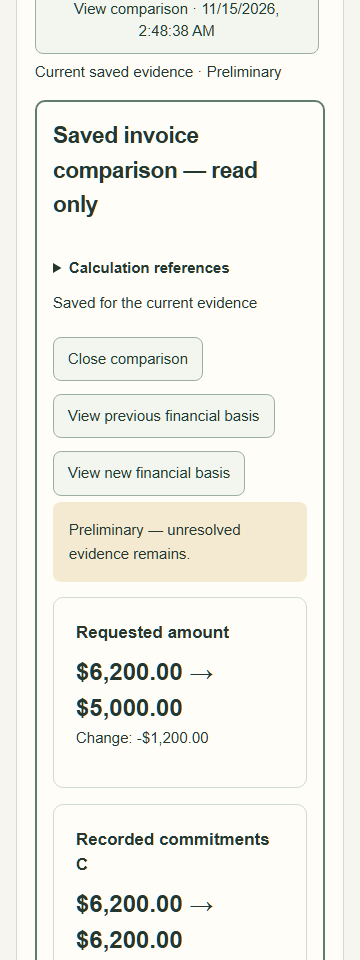
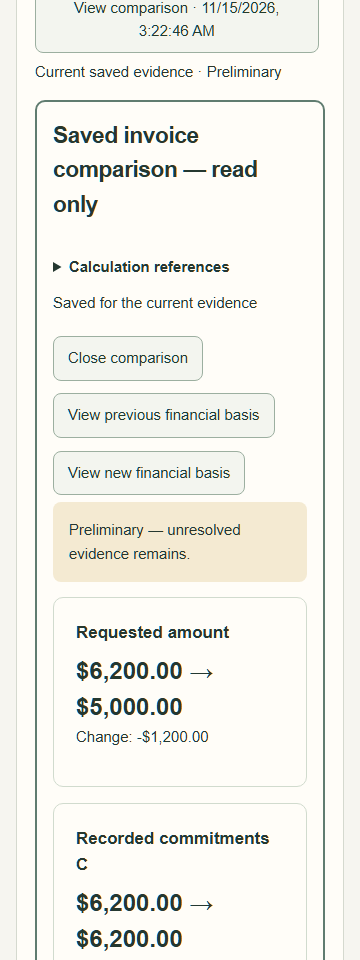
Document verified stage 8 production release and public browser evidence

diff --git a/planning/STAGE_8_REPORT.md b/planning/STAGE_8_REPORT.md
@@ -25,7 +25,7 @@ Financial edits are saved by **Save review and calculate** or **Run recheck**; u
 - A concurrent integration test exposed mixed MVCC reads after waiting for a project row lock. Fixed by loading invoice side data after acquiring the project lock; identical concurrent retries then return consistent state and one result.
 - Final production frontend build, strict mypy/TypeScript checks, Ruff, Prettier and specification integrity checks passed. HTTP smoke passed through the real BFF, normalization and ledger. Final targeted Python checks: **45 passed**; final stage 8 integration rerun: **6 passed**.
 - Full guest browser suite: **12 passed** at 360/768/1440 px, including an intentionally lost successful response and retry. After final presentation/provenance changes, the three recheck journeys passed again. Existing demo browser suite: **34 passed, 2 intentionally skipped** (viewport-specific checks).
-- Visually inspected the final comparison at all three widths: readable amounts, wrapping controls and no horizontal overflow. Local screenshots: [360 px](screenshots/stage8/comparison-guest-360.png), [768 px](screenshots/stage8/comparison-guest-768.png), [1440 px](screenshots/stage8/comparison-guest-1440.png). These capture local validation, not yet a public release.
+- Visually inspected the final comparison at all three widths: readable amounts, wrapping controls and no horizontal overflow. Public-release screenshots: [360 px](screenshots/stage8/comparison-guest-360.png), [768 px](screenshots/stage8/comparison-guest-768.png), [1440 px](screenshots/stage8/comparison-guest-1440.png). The committed images now come from the final public run described below; all three were visually inspected again.
 
 ## Run and manually verify
 
@@ -65,4 +65,24 @@ npm run test:remote
 
 ## Release gate
 
-CI, migration and public deployment pending. Previous runtime SHA is `6cb667c5308a9cee98b722f7b3956dcd8ffd58dc`; stage 7 final documentation/CI SHA is `28227f80cd8cd523a23d17c8ad1a67597c16b57f`. Do not claim the new public workflow before publishing and testing its checked SHA. Migration/rollback instructions are in [DEPLOYMENT.md](DEPLOYMENT.md).
+Published application SHA: `3dba4d1b0d47ad3a315a02b96ca636fa1fb165b7`. Frontend: <https://renotrace.vercel.app/review>; backend: <https://renotrace-api.onrender.com>. [Release CI 43645110425](https://github.com/IliasGalikhanov/renotrace/actions/runs/43645110425) passed on Linux and Windows: 401 Python tests, 34 demo browser tests with 2 intentional skips, 23 real integration tests and 12 guest browser tests. Later report/screenshot commits do not change the deployed application.
+
+The explicit additive production migration completed successfully on 2026-11-15 **before** deploying the backend. The previous backend remained healthy with OpenAPI `0.7.0` after migration. Render was then deployed and checked independently: `/healthz` returned `ok`, OpenAPI `0.8.0` exposed all four recheck/comparison routes. Only after the public backend test passed was Vercel switched to the same SHA. Existing Vercel Hobby, Render Free and Supabase Free resources were reused; no paid additions, new services or secrets were introduced.
+
+The owner confirmed Render Live and Vercel Ready for the exact SHA supplied above. Dashboard status is user-confirmed: the built-in browser controller returned `Trusted RPC service is not configured: browser` and its advertised skill file was unavailable, so final deployment IDs could not be independently captured. Public HTTPS behavior was tested independently, without local servers. Local test containers were stopped, retaining their volumes.
+
+Public backend acceptance: **1 passed, 5 deselected in 285.20 seconds**. Real uploaded synthetic PDFs exercise $6,200 -> $5,000, unchanged P/R, concurrent retries, pinned reply versions, immutable history, source-change invalidation, isolation and deletion. Direct database-trigger/table checks and restart/expiry simulation run only against disposable local/CI services; they were not performed on production.
+
+Public browser acceptance: **3 passed in 12.6 minutes**, one complete journey at each of **360/768/1440 px** (4.3 / 4.2 / 4.0 minutes). The tests use real PDF uploads, reviewed financial facts and invoice composition, a saved reply, a persisted draft restored after reload, explicit invoice replacement and row matching, payment evidence links, a saved package, and a separately triggered recheck. A deliberately lost successful response is retried without producing a second comparison. Reloaded history shows requested **$6,200 -> $5,000**, C **$6,200 -> $6,200**, P **$1,200 -> $1,200**, R **$5,000 -> $5,000**, with unresolved evidence still marked preliminary. Every test deletes its own review.
+
+After the new journey, the public demo regression passed: **12 tests in 41.9 seconds**, covering FIN-01/11/16, source disclosure, reset, separate visitors and all three widths. Final public comparison screenshots are linked above; visual inspection confirmed readable amounts and controls, visible uncertainty and no horizontal overflow. These timings establish functional acceptance, not a low-latency claim: several uploads and database saves take minutes on the existing free resources. The backend can sleep; existing startup waiting/retry behavior remains, without artificial keepalive.
+
+To reproduce the direct HTTPS backend check (no production credentials or local database access):
+
+```powershell
+$env:GUEST_API_URL='https://renotrace-api.onrender.com'
+Remove-Item Env:GUEST_LOCAL_DB -ErrorAction SilentlyContinue
+.\scripts\uv.ps1 run --locked pytest tests/integration/test_guest_recheck.py -k real_recheck -q --tb=short
+```
+
+The public browser commands are listed above. Previous runtime SHA: `6cb667c5308a9cee98b722f7b3956dcd8ffd58dc`; stage 7 final documentation/CI SHA: `28227f80cd8cd523a23d17c8ad1a67597c16b57f`. Preserve additive tables and history on rollback; follow [DEPLOYMENT.md](DEPLOYMENT.md#stage-8-migration-and-release). Stage 8 is complete; downloadable reconciliation packages remain a separate stage.

diff --git a/planning/DEPLOYMENT.md b/planning/DEPLOYMENT.md
@@ -4,6 +4,8 @@ See [stage 8 report](STAGE_8_REPORT.md) for the latest release gate. Stage 5 bel
 
 ## Stage 8 migration and release
 
+Published application SHA: `3dba4d1b0d47ad3a315a02b96ca636fa1fb165b7`. Frontend: <https://renotrace.vercel.app/review>; backend: <https://renotrace-api.onrender.com>. The owner confirmed Render Live and Vercel Ready on 2026-11-15. The additive migration was applied before switching the backend; OpenAPI reports `0.8.0`. See [release evidence and verification boundaries](STAGE_8_REPORT.md#release-gate) for independent public checks. Later report/screenshot commits do not change the deployed runtime.
+
 No new service or secret is needed. Existing Vercel Hobby, Render Free and Supabase Free resources are reused, without paid additions. After CI passes for the release SHA, use its checked checkout to apply the additive migration **before** deploying the new backend:
 
 ```powershell
